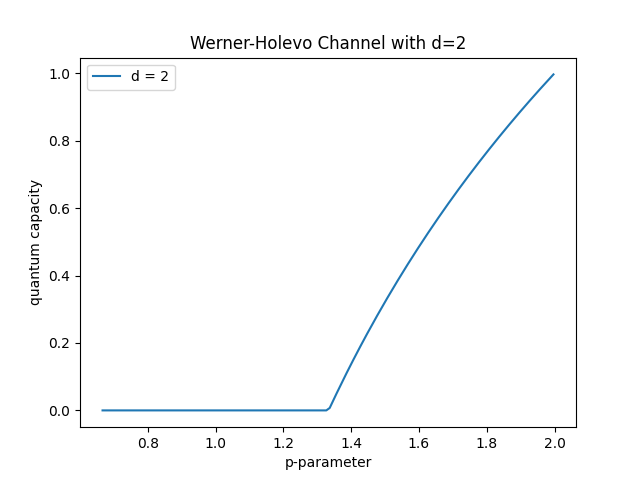
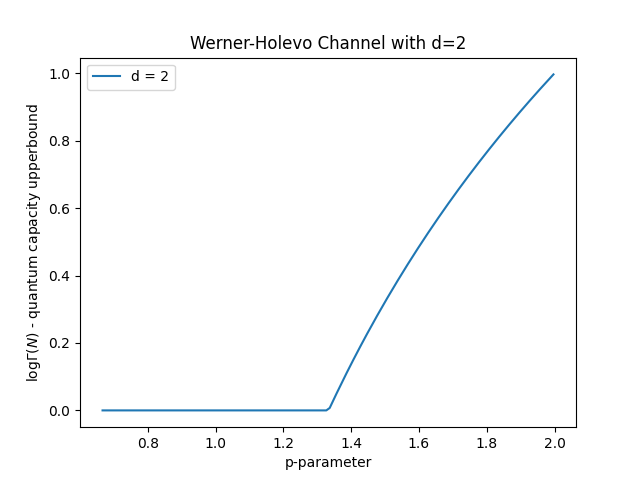
fixed y-label

Changed region(s): [[0.0312, 0.2188, 0.0625, 0.6562], [0.0312, 0.6875, 0.0625, 0.8125]]

diff --git a/choi_plot.py b/choi_plot.py
@@ -85,7 +85,7 @@ def plot_(dimension, channel):
     if channel[0] == "w":
         plt.title('Werner-Holevo Channel with d=' + str(d))
         plt.xlabel('p-parameter')
-        plt.ylabel('quantum capacity')
+        plt.ylabel("log" + r'$\Gamma(N)$' + " - quantum capacity upperbound")
         plt.savefig('./plot/werner/wern_' + str(d) + '.png')
 
     # plt.show()
@@ -145,7 +145,7 @@ def plot_all_(lower, upper, channel):
         plt.title('Werner-Holevo Channel with d from ' + str(lower) + ' to ' + str(upper))
         #plt.xlabel('p-parameter')
         plt.xlabel('t-parameter')
-        plt.ylabel('quantum capacity')
+        plt.ylabel("log" + r'$\Gamma(N)$')
         plt.savefig('./plot/werner/wern_' + str(lower) + '_' + str(upper) + '.png')
 
         # plt.show()
